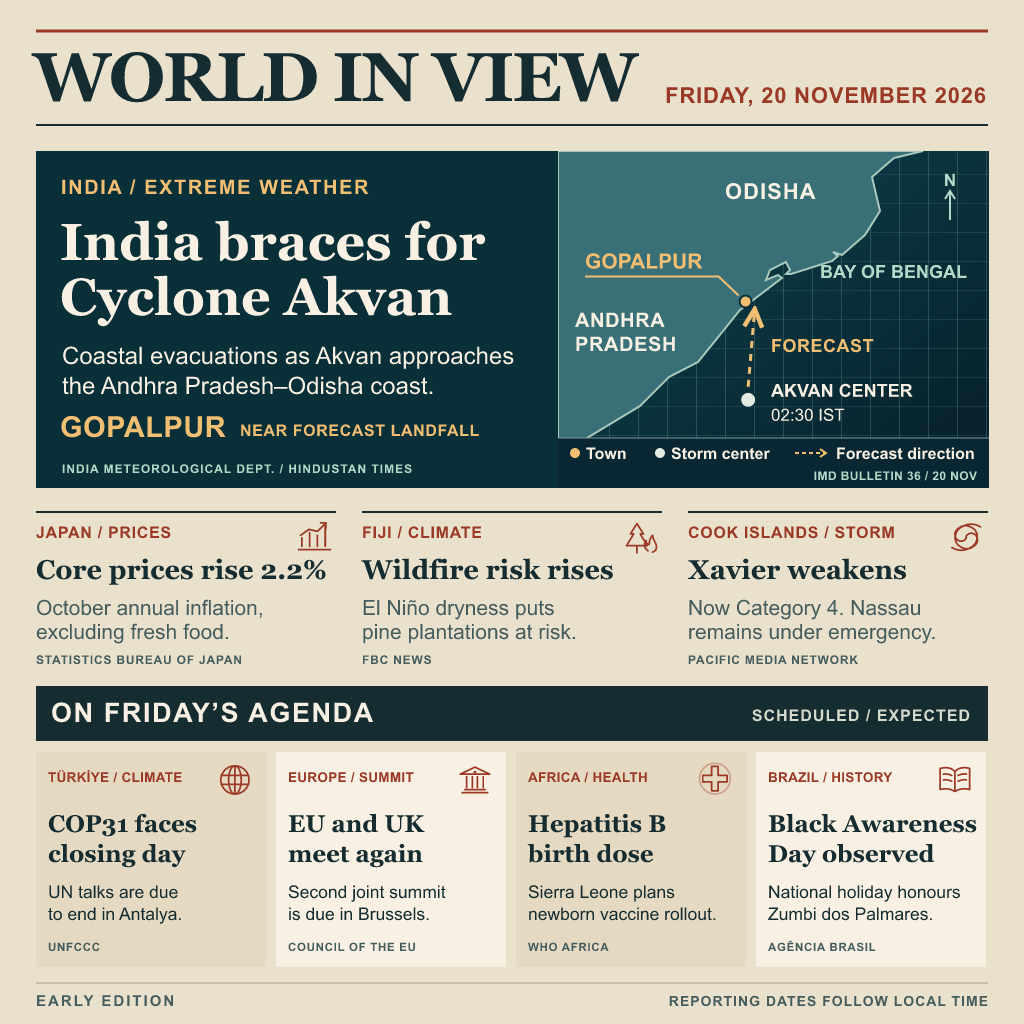
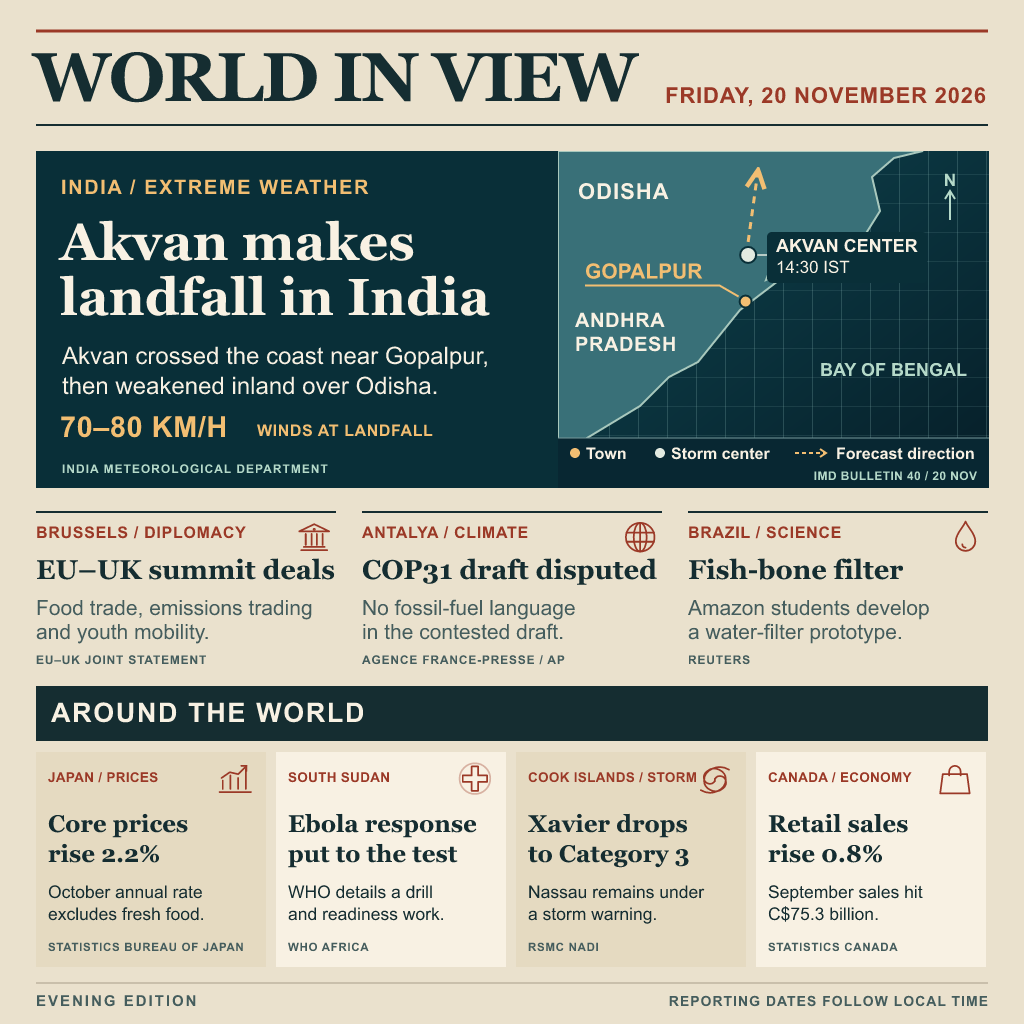
Publish verified evening edition for 20 November

diff --git a/README.md b/README.md
@@ -4,7 +4,7 @@
 [![rank](https://make.fun/badge/news-image-20261120/yossapr/world-news-20261120/rank.svg)](https://make.fun/bounty/news-image-20261120/leaderboard)
 [![reward](https://make.fun/badge/news-image-20261120/yossapr/world-news-20261120/reward.svg)](https://make.fun/bounty/news-image-20261120)
 
-An illustrated early edition for Friday, 20 November 2026. The upper half presents reported developments and the lower strip shows the day's agenda. The cyclone map plots the 02:30 IST storm center and shows the forecast direction towards the Gopalpur area from the same bulletin.
+An illustrated evening edition for Friday, 20 November 2026, drawn from reporting available around 14:00 UTC. Eight stories cover Africa, Asia, Europe, North America, South America and the Pacific. The cyclone map plots the 14:30 IST observed center inland and uses a dashed arrow for the direction forecast in the same bulletin.
 
 ## Run it
 
@@ -16,11 +16,11 @@ Node 22 writes the checked-in edition to `entry.png` without dependencies or net
 
 ## Reporting notes
 
-- **Akvan.** The 02:30 IST bulletin placed Akvan's center at 17.7°N, 84.9°E and forecast it would cross near Gopalpur. The map uses a simplified public-domain coastline. [IMD National Bulletin 36](https://mausam.imd.gov.in/Forecast/marquee_data/36.%20National%20Bulletin%20No%2036-20Nov2026_0230IST.pdf) · [Natural Earth](https://www.naturalearthdata.com/about/terms-of-use/) · [Hindustan Times live reporting](https://www.hindustantimes.com/india-news/cyclone-akvan-tracker-live-updates-andhra-odisha-landfall-date-time-imd-red-alert-heavy-rainfall-101795048848079.html)
+- **Akvan, India, 20 November.** Akvan crossed near Gopalpur during 07:30–08:30 IST with sustained winds of 70–80 km/h. IMD placed the weakened deep depression at 20.0°N, 84.9°E at 14:30 IST. The dashed arrow shows the bulletin's northward forecast direction and stops within the map. The gold town dot marks Gopalpur itself. [IMD crossing report](https://internal.imd.gov.in/press_release/20261120_pr_5512.pdf) · [IMD National Bulletin 40](https://mausam.imd.gov.in/backend/assets/cyclone_pdf/40__National_Bulletin_No_40-20Nov2026_1430IST_docx.pdf) · [Natural Earth coastline](https://www.naturalearthdata.com/about/terms-of-use/)
+- **Brussels, 20 November.** The joint summit statement recorded progress on food trade, emissions trading and a youth mobility scheme. Those announcements concern negotiations and commitments, with implementation still to follow. [EU–UK joint statement](https://assets.publishing.service.gov.uk/media/6b003dbde43662b58d107613/EU-UK_Summit_Joint_Statement_2026.docx.pdf)
+- **Antalya, 20 November.** Friday negotiations and protests centered on a draft that omitted fossil fuels. The edition reports the dispute over the draft while talks continued. [AFP, 20 November](https://www.afp.com/en/cop31-deal-elusive-fossil-fuel-fight-deepens) · [Associated Press, 20 November in Antalya](https://apnews.com/article/a683c5c87a7ee64caf4e9257948b6e40)
+- **Brazil, 20 November reporting.** Reuters reported that students and their teacher in Manacapuru developed a prototype filter using charred pirarucu bones. [Reuters, via Internazionale](https://www.internazionale.it/ultime-notizie-reuters/2026/11/20/brazilian-students-turn-to-burned-fish-bones-as-clean-water-filter)
 - **Japan.** The October release dated 20 November lists a 2.2% annual increase in the index excluding fresh food. [Statistics Bureau release](https://www.e-stat.go.jp/stat-search/file-download?fileKind=2&statInfId=000040525997)
-- **Fiji.** Dry conditions linked to El Niño raised the fire risk in the pine plantations. [FBC News, 20 November](https://www.fbcnews.com.fj/news/el-nino-increases-fire-risk-for-fiji-pine/)
-- **Cook Islands.** Friday's report described Xavier at Category 4, with Nassau under the emergency declared Thursday local time. [Pacific Media Network, 20 November](https://pmn.co.nz/read/environment/nassau-placed-under-state-of-emergency-as-xavier-threatens-northern-cook-islands)
-- **Antalya.** The official COP31 schedule lists 20 November as its closing date. [UNFCCC](https://unfccc.int/cop31/ifp)
-- **Brussels.** The EU Council scheduled the EU–UK summit for Friday. [Council of the EU media advisory](https://www.consilium.europa.eu/en/press/press-releases/2026/11/18/media-advisory-eu-united-kingdom-summit/pdf/)
-- **Sierra Leone.** WHO Africa reported the planned 20 November launch of the hepatitis B birth dose. [WHO Africa newsletter](https://www.afro.who.int/sites/default/files/2026-11/WHO%203RD%20QUARTER%20NEWSLETTER%202026.pdf)
-- **Brazil.** National Black Awareness Day falls on 20 November and commemorates Zumbi dos Palmares. [Agência Brasil](https://agenciabrasil.ebc.com.br/geral/noticia/2026-10/hoje-e-dia-datas-fatos-e-feriados-de-novembro-de-2026)
+- **South Sudan, 20 November reporting.** WHO Africa described the country's recently completed preparedness exercise and assessments for Bundibugyo Ebola. [WHO Africa release](https://www.afro.who.int/countries/south-sudan/news/south-sudan-strengthens-readiness-bundibugyo-virus-disease)
+- **Cook Islands, 20 November.** RSMC Nadi Special Weather Bulletin 42 issued at 11:26 UTC described Xavier as Category 3 and maintained a storm warning for Nassau. [Fiji Meteorological and Hydrological Services warnings](https://www.met.gov.fj/warnings/)
+- **Canada, 20 November.** The September release puts national retail sales at C$75.3 billion, up 0.8% from August. [Statistics Canada](https://www150.statcan.gc.ca/n1/daily-quotidien/261120/dq261120a-eng.htm)
